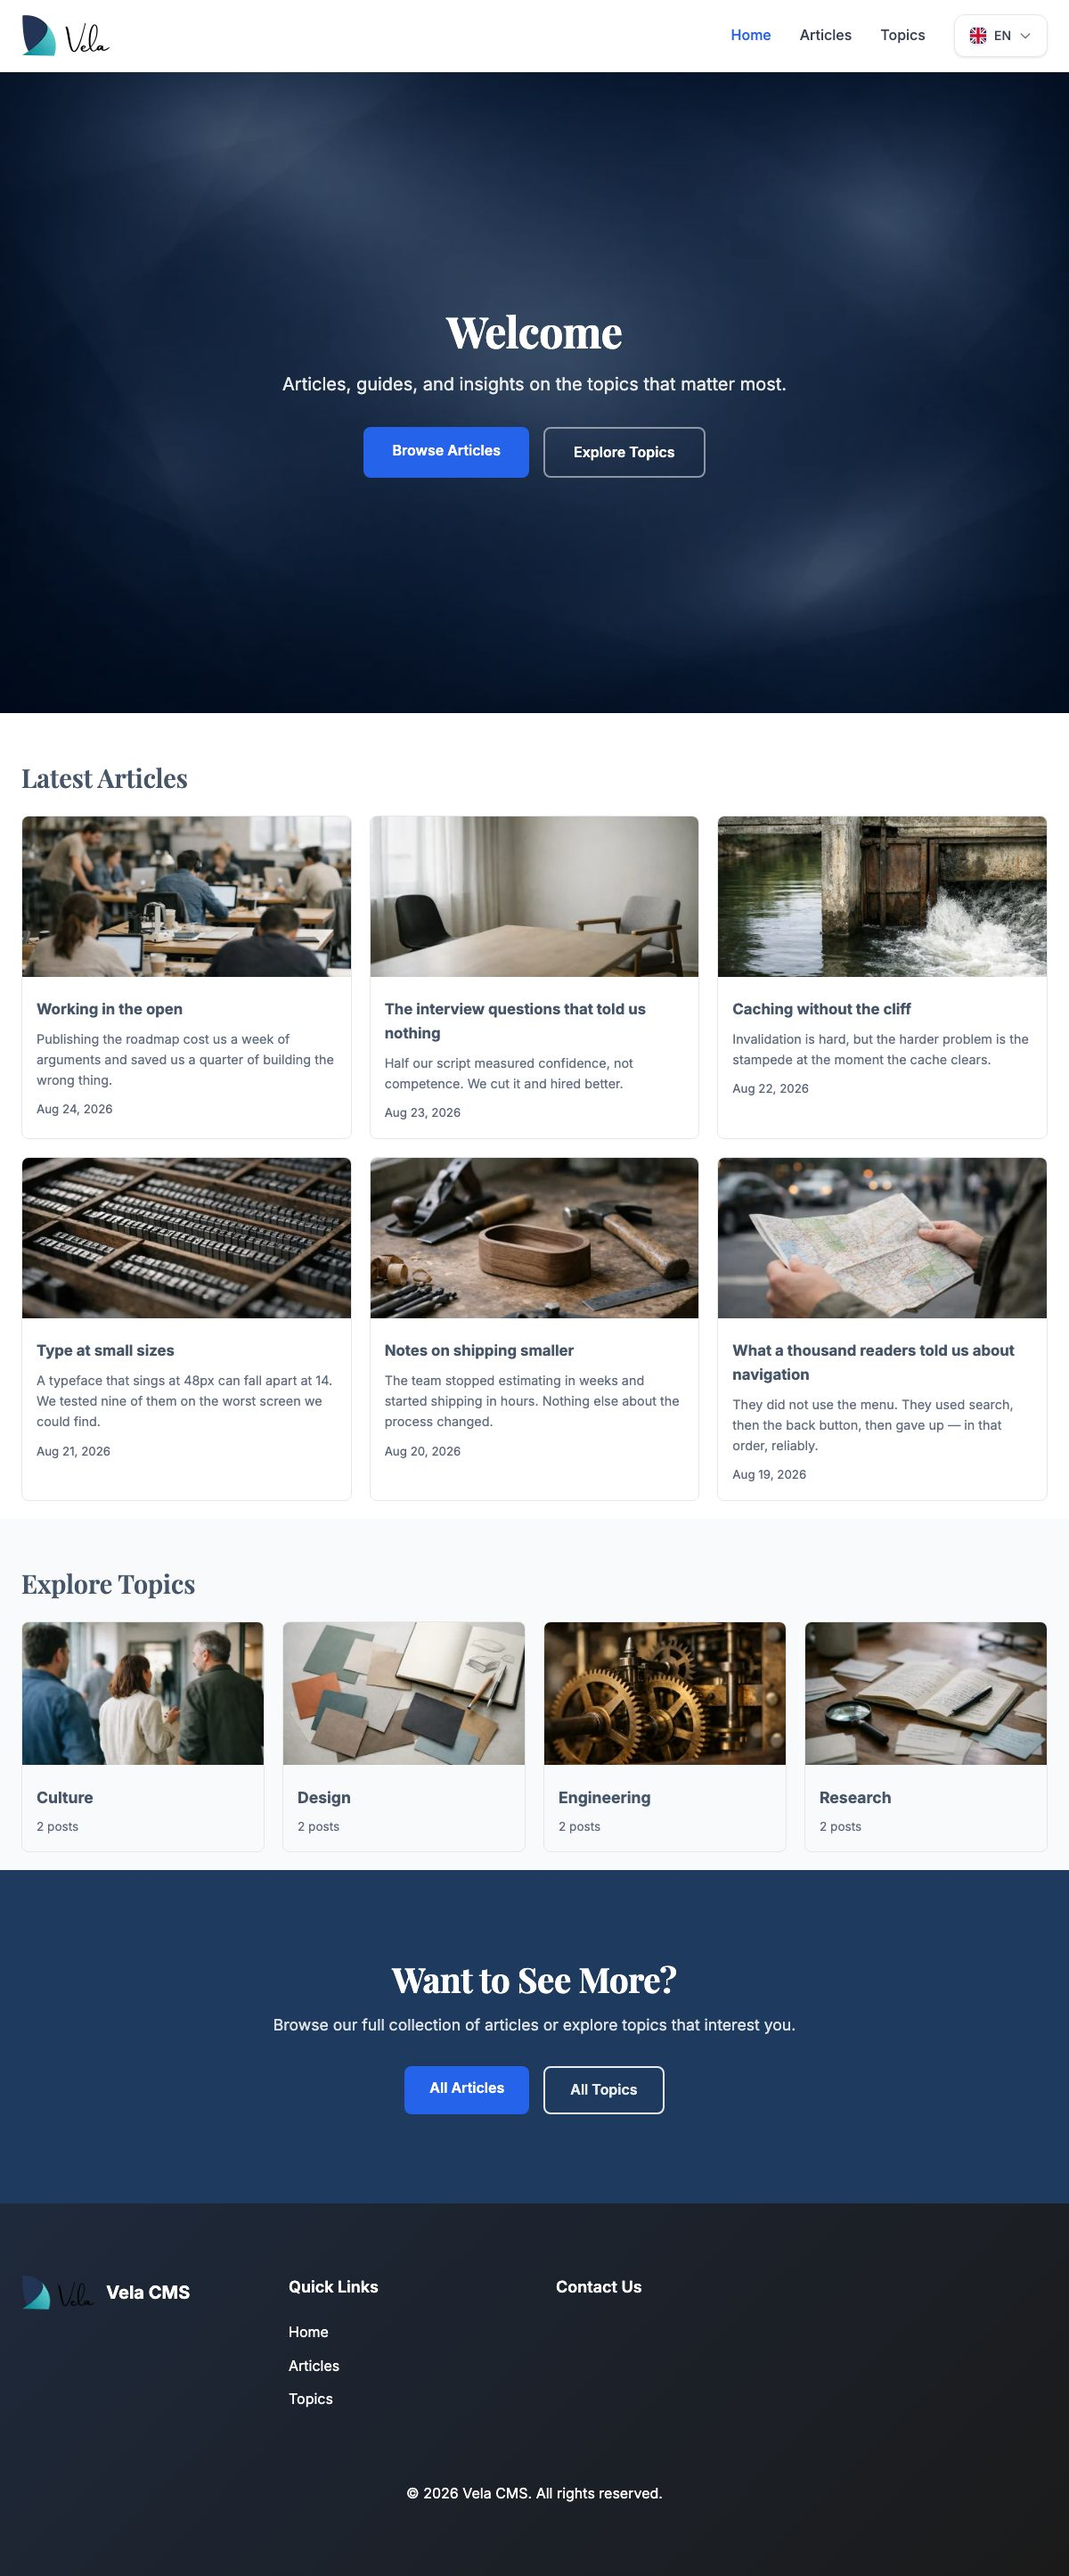
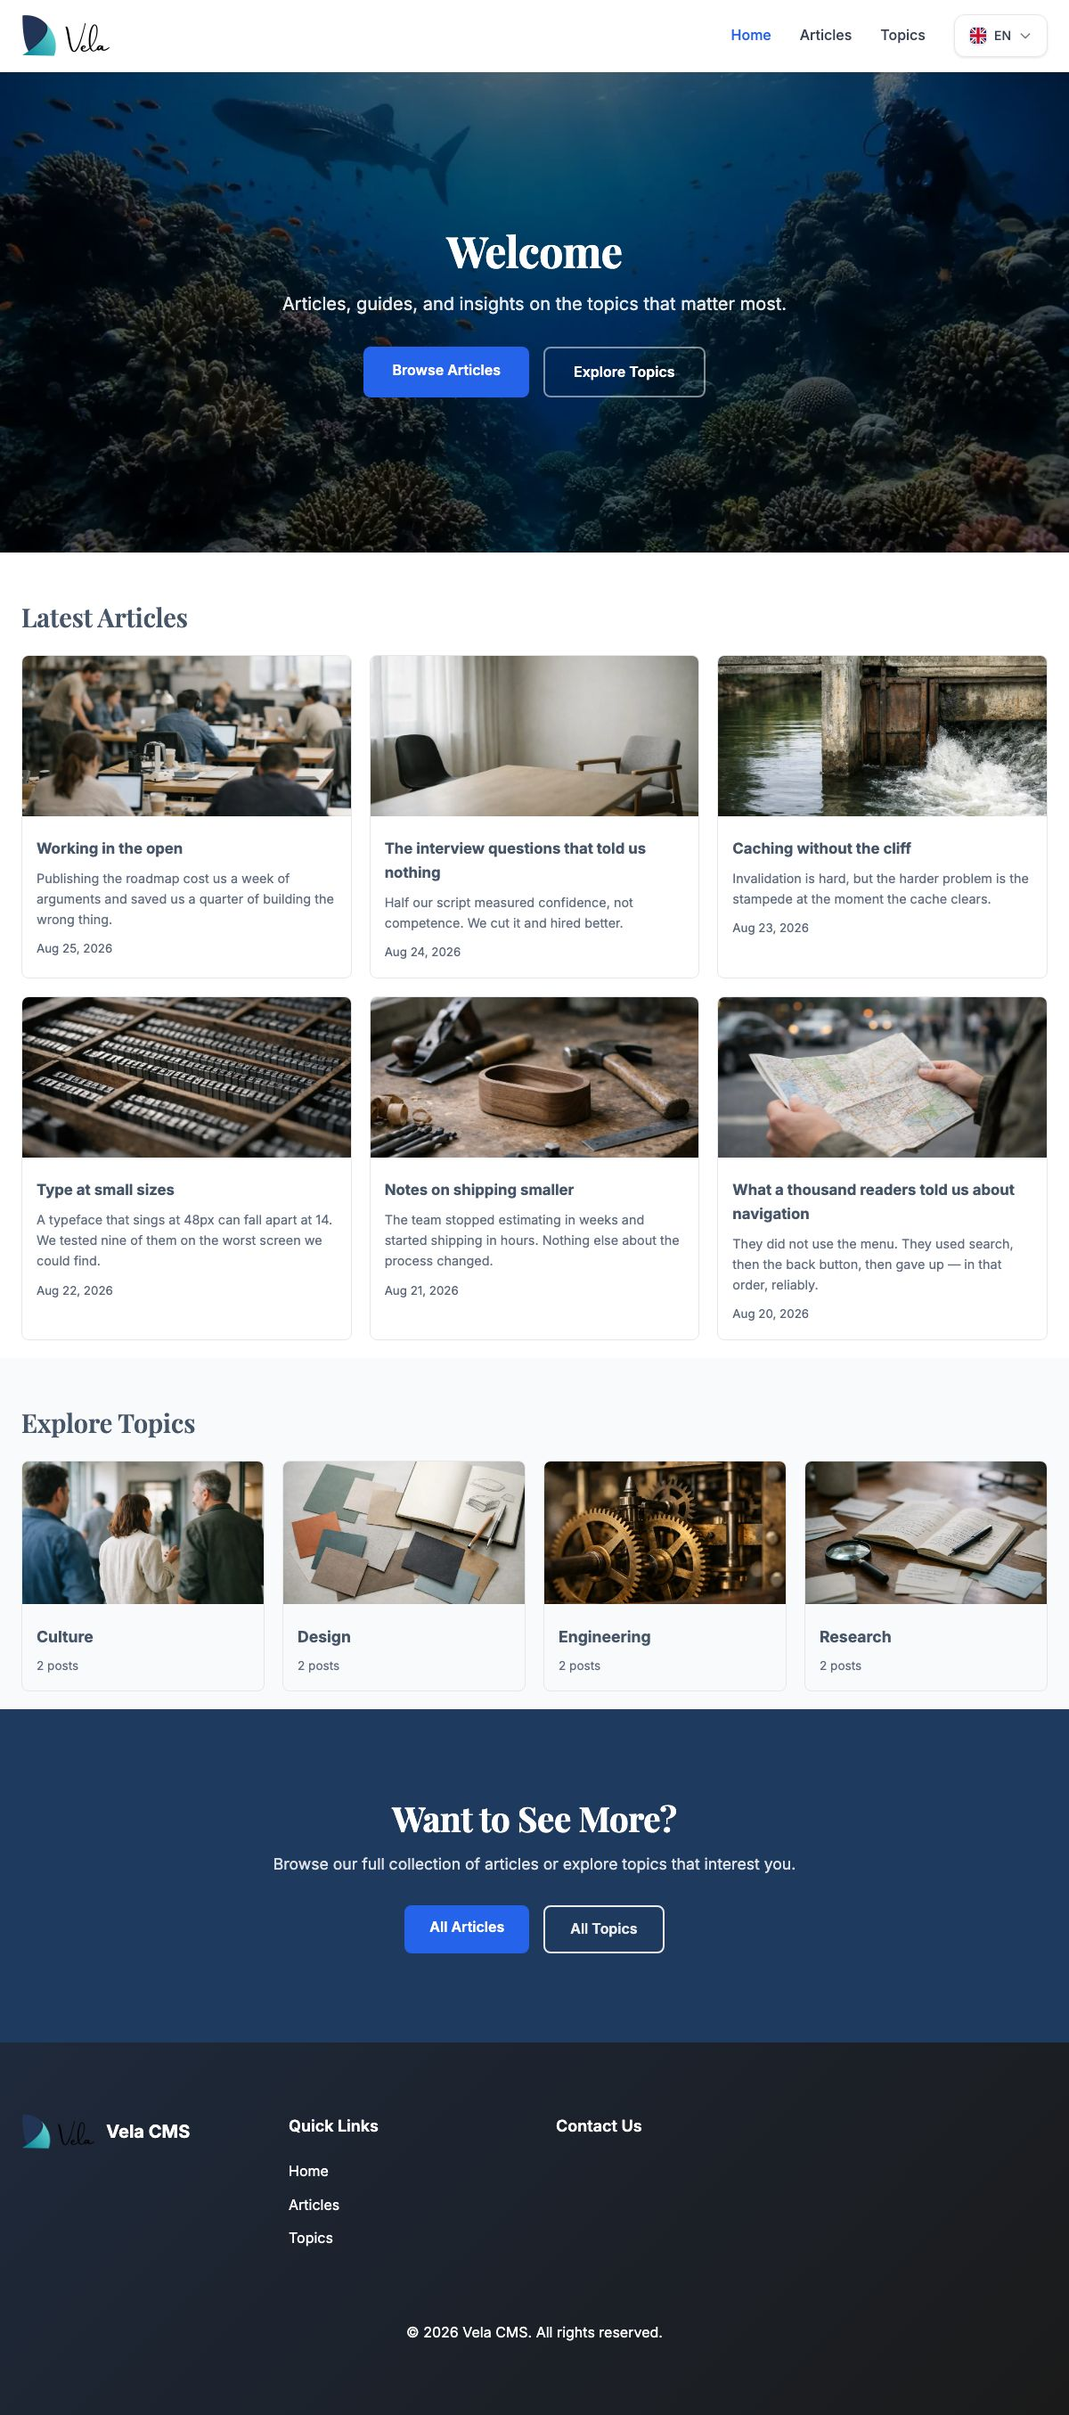
Put the supplied photographs behind three heroes
default, corporate and modern now carry the photographs provided for them —
a reef, a meeting room, a glass composition — rather than the abstract
grounds they had. minimal and dark keep theirs; editorial still leads with a
featured article and has no hero to fill.

A photograph is a harder ground for white text than a gradient. All three
carry near-white pixels exactly where the headline sits, measured at 1.00 to
1.04:1 unscrimmed — the reef's sunlit water, the meeting room's windows, the
lavender field the modern composition floats in. Scrims are set from that
measurement: 0.55 black over the two photographs, which is the point where
white clears 4.5:1 over a pure white pixel, and violet-800 to blue-800 at
0.78 for modern, which passes at 5.03:1 while letting through 22% of the
image rather than the 6% its previous 0.94 gradient would have. Rendered and
measured again afterwards: 8.01:1, 4.74:1 and 5.39:1.

Two things came out of the performance check.

vela_background_url asked the optimiser for 1920px regardless of what the
file held. The optimiser scales to whatever width it is given, so a 1280px
hero came back upscaled and re-encoded at 215 KB — larger than the 92 KB
source and no sharper. It now clamps the request to the file's own width.
Safe here because this emits a single URL with no width descriptor; a srcset
could not do the same without misdescribing its candidates.

That still left default at 87. Its hero was min-height 80vh — half again as
[…]

diff --git a/src/Helpers/image.php b/src/Helpers/image.php
@@ -310,6 +310,20 @@ if (!function_exists('vela_background_url')) {
      */
     function vela_background_url(string $src, int $width = 1920): string
     {
+        // Never ask for more pixels than the file has. The optimiser scales to
+        // whatever width it is given, so requesting 1920 from a 1280px source
+        // upscales it and re-encodes — a 92 KB hero came back down the wire at
+        // 215 KB, larger than the original and no sharper. Safe to clamp here
+        // because this emits one URL with no width descriptor attached to it;
+        // a srcset could not do the same without lying about its candidates.
+        $relative = vela_image_relative_path($src);
+        if ($relative !== null) {
+            [$intrinsicWidth] = vela_image_dimensions($relative);
+            if ($intrinsicWidth > 0) {
+                $width = min($width, $intrinsicWidth);
+            }
+        }
+
         $url = vela_image_url($src, $width);
 
         if (str_starts_with($url, 'http') || str_starts_with($url, '/') || str_starts_with($url, 'data:')) {
